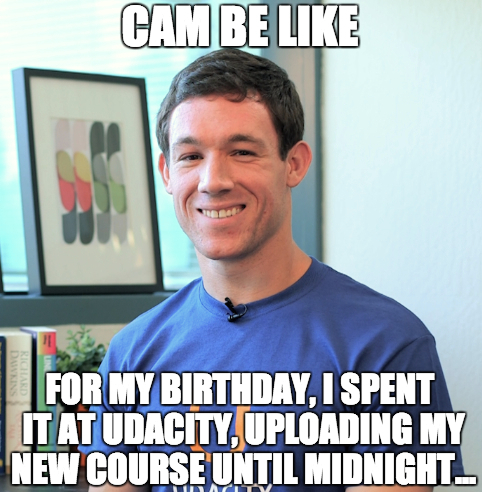
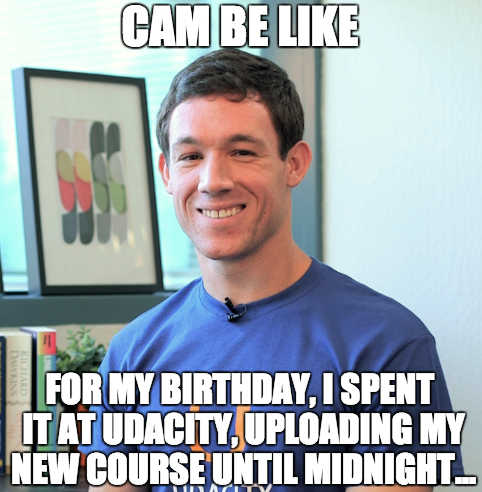
WebPerf
Minified, shrunk image.

diff --git a/project-webperf.html b/project-webperf.html
@@ -1,55 +1,1 @@
-<!DOCTYPE html>
-<html lang="en">
-  <head>
-    <meta charset="utf-8">
-    <meta name="viewport" content="width=device-width, initial-scale=1">
-    <meta name="description" content=" FILL ME IN ">
-    <meta name="author" content=" FILL ME IN ">
-    <title>Cameron Pitman: Portfolio</title>
-
-    <!-- Hmm, what is the impact of web fonts on speed? Measure it... -->
-    <!-- <link href="//fonts.googleapis.com/css?family=Open+Sans:400,700" rel="stylesheet"> -->
-
-    <link href="css/style.css" rel="stylesheet">
-    <link href="css/print.css" rel="stylesheet">
-
-    <script>
-      (function(w,g){w['GoogleAnalyticsObject']=g;
-      w[g]=w[g]||function(){(w[g].q=w[g].q||[]).push(arguments)};w[g].l=1*new Date();})(window,'ga');
-
-      // TODO: replace with your Google Analytics profile ID.
-      ga('create', 'UA-XXXX-Y');
-      ga('send', 'pageview');
-    </script>
-    <script async src="http://www.google-analytics.com/analytics.js"></script>
-    <script async src="js/perfmatters.js"></script>
-  </head>
-
-  <body>
-    <header>
-      <a href="/"><img src="img/profilepic.jpg"></a>
-      <p>Cameron Pittman<br><span>Course Developer</span></p>
-    </header>
-
-    <div class="container">
-      <div class="hero">
-        <strong>Thanks for taking this class!</strong> You are awesome for investing time and energy into your future :) We love making classes for you!
-      </div>
-
-      <div class="content">
-        
-        <p>Thanks to everyone at Udacity and Google who made this class happen! Now for a very true meme and some <strike>lorem</strike> bacon ipsum.</p>
-
-        <img src="img/cam_be_like.jpg">
-
-        <p>Bacon ipsum dolor sit amet et pork belly porchetta excepteur dolor, laborum laboris magna labore dolore in fugiat beef ribs. Fugiat leberkas nulla do kevin dolore. Flank hamburger dolor swine prosciutto sirloin pig jerky sunt consequat pariatur. Mollit meatloaf nostrud laboris shoulder excepteur velit officia meatball nisi turkey. Nulla jowl spare ribs, et drumstick magna frankfurter.</p>
-
-        <p>Venison spare ribs dolor tri-tip duis turkey. Ut chicken proident ribeye est flank, sed frankfurter. Kielbasa exercitation ullamco leberkas. Landjaeger turkey culpa, tail short loin consectetur salami venison in corned beef eiusmod qui ad leberkas. Tri-tip adipisicing frankfurter ut sirloin rump consectetur. Chuck sint filet mignon labore eiusmod nulla. Venison shankle pork, consectetur nisi bacon spare ribs anim meatball sausage ball tip labore aute reprehenderit adipisicing.</p>
-
-    </div>
-
-    <footer>
-      <p>&copy; Web Performance 2014 <span id="crp-stats"></span></p>
-    </footer>
-  </body>
-</html>
+<!DOCTYPE html><html lang="en"> <head> <meta charset="utf-8"> <meta name="viewport" content="width=device-width, initial-scale=1"> <meta name="description" content=" FILL ME IN "> <meta name="author" content=" FILL ME IN "> <title>Cameron Pitman: Portfolio</title> <link href="css/style.css" rel="stylesheet"> <link href="css/print.css" rel="stylesheet" media="print"> <script async src="http://www.google-analytics.com/analytics.js"></script> <script async src="js/perfmatters.js"></script> </head> <body> <header> <a href="/"><img src="img/profilepic.jpg"></a> <p>Cameron Pittman<br><span>Course Developer</span></p></header> <div class="container"> <div class="hero"> <strong>Thanks for taking this class!</strong> You are awesome for investing time and energy into your future :) We love making classes for you! </div><div class="content"> <p>Thanks to everyone at Udacity and Google who made this class happen! Now for a very true meme and some <strike>lorem</strike> bacon ipsum.</p><img src="img/cam_be_like.jpg"> <p>Bacon ipsum dolor sit amet et pork belly porchetta excepteur dolor, laborum laboris magna labore dolore in fugiat beef ribs. Fugiat leberkas nulla do kevin dolore. Flank hamburger dolor swine prosciutto sirloin pig jerky sunt consequat pariatur. Mollit meatloaf nostrud laboris shoulder excepteur velit officia meatball nisi turkey. Nulla jowl spare ribs, et drumstick magna frankfurter.</p><p>Venison spare ribs dolor tri-tip duis turkey. Ut chicken proident ribeye est flank, sed frankfurter. Kielbasa exercitation ullamco leberkas. Landjaeger turkey culpa, tail short loin consectetur salami venison in corned beef eiusmod qui ad leberkas. Tri-tip adipisicing frankfurter ut sirloin rump consectetur. Chuck sint filet mignon labore eiusmod nulla. Venison shankle pork, consectetur nisi bacon spare ribs anim meatball sausage ball tip labore aute reprehenderit adipisicing.</p></div><footer> <p>&copy; Web Performance 2014 <span id="crp-stats"></span></p></footer> <script>(function(w,g){w['GoogleAnalyticsObject']=g; w[g]=w[g]||function(){(w[g].q=w[g].q||[]).push(arguments)};w[g].l=1*new Date();})(window,'ga'); // TODO: replace with your Google Analytics profile ID. ga('create', 'UA-XXXX-Y'); ga('send', 'pageview'); </script> </body></html>
